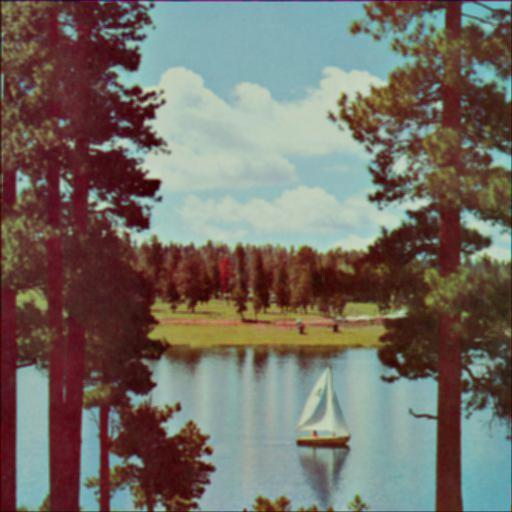
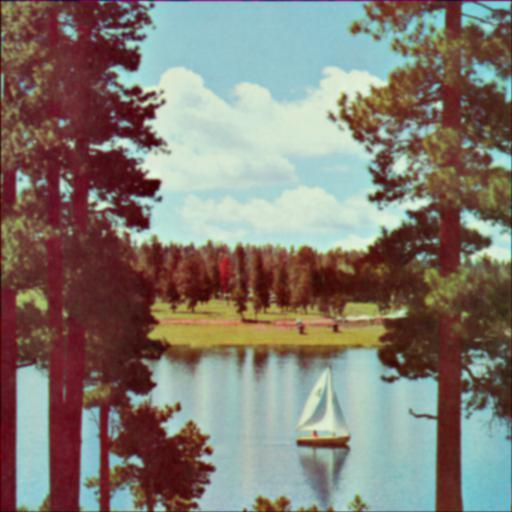
Fixed task 2c. Convolution now works

diff --git a/image_processing/assignment_1/task2c.py b/image_processing/assignment_1/task2c.py
@@ -6,7 +6,6 @@ from utils import read_im, save_im, normalize
 output_dir = pathlib.Path("image_solutions")
 output_dir.mkdir(exist_ok=True)
 
-
 im = read_im(pathlib.Path("images", "lake.jpg"))
 plt.imshow(im)
 
@@ -32,29 +31,38 @@ def convolve_im(im, kernel,
 
     # Different loop-orders were tried out, but this one seemed
     # to yield the lowest running time
-    for channel_index in range(im.shape[2]):
+    for channel_index in range(im.shape[2]):  # RGB channel
         for h_index in range(image_height):
             for w_index in range(image_width):
                 pixel_value = 0.0
                 for ki in range(-kernel_dim_divided, kernel_dim_divided + 1):
+                    h_coor = h_index - ki
+                    if h_coor < 0 or h_coor >= image_height:
+                        continue
                     for kj in range(-kernel_dim_divided, kernel_dim_divided + 1):
                         # Minus since we are using applying convolution
-                        h_coor = h_index - ki
-                        if h_coor < 0 or h_coor >= image_height:
-                            continue
                         w_coor = w_index - kj
                         if w_coor < 0 or w_coor >= image_width:
                             continue
-                        if kj == 0 and ki == 0:
-                            continue
-                        pixel_value += kernel[ki, kj] * \
-                            im[h_coor, w_coor, channel_index]
+                        pixel_value += kernel[kernel_dim_divided + ki,
+                                              kernel_dim_divided + kj] * im[h_coor, w_coor, channel_index]
                 computed[h_index, w_index, channel_index] = pixel_value
 
     return computed
 
-    # Define the convolutional kernels
-h_a = np.ones((3, 3)) / 9
+
+# Define the convolutional kernels
+
+# The Gaussian blur 5x5
+h_b = 1 / 256 * np.array([
+    [1, 4, 6, 4, 1],
+    [4, 16, 24, 16, 4],
+    [6, 24, 36, 24, 6],
+    [4, 16, 24, 16, 4],
+    [1, 4, 6, 4, 1]
+])
+
+# Sobel kernel vertical edge detection
 sobel_x = np.array([
     [-1, 0, 1],
     [-2, 0, 2],
@@ -62,8 +70,9 @@ sobel_x = np.array([
 ])
 
 # Convolve images
-im_smoothed = convolve_im(im.copy(), h_a)
+im_smoothed = convolve_im(im.copy(), h_b)
 save_im(output_dir.joinpath("im_smoothed.jpg"), im_smoothed)
+
 im_sobel = convolve_im(im, sobel_x)
 save_im(output_dir.joinpath("im_sobel.jpg"), im_sobel)
 
